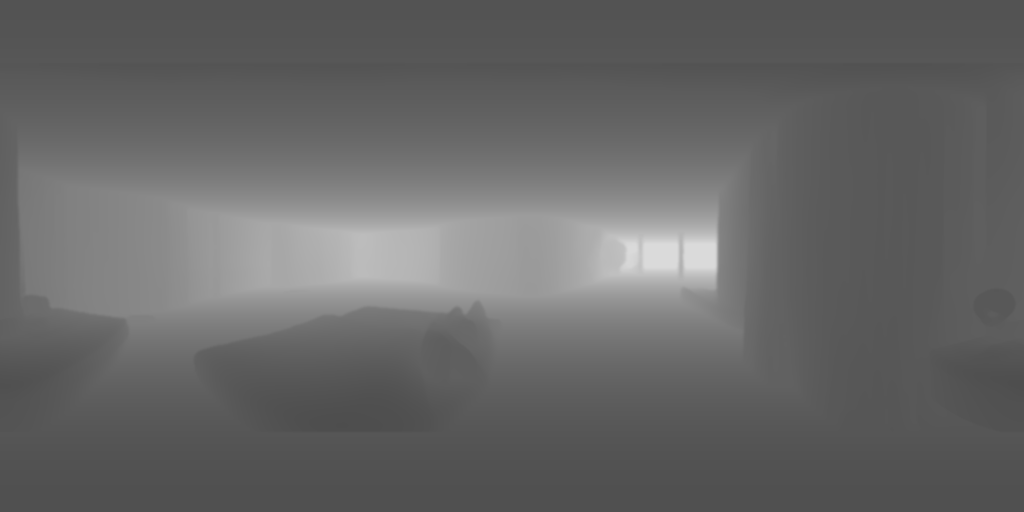
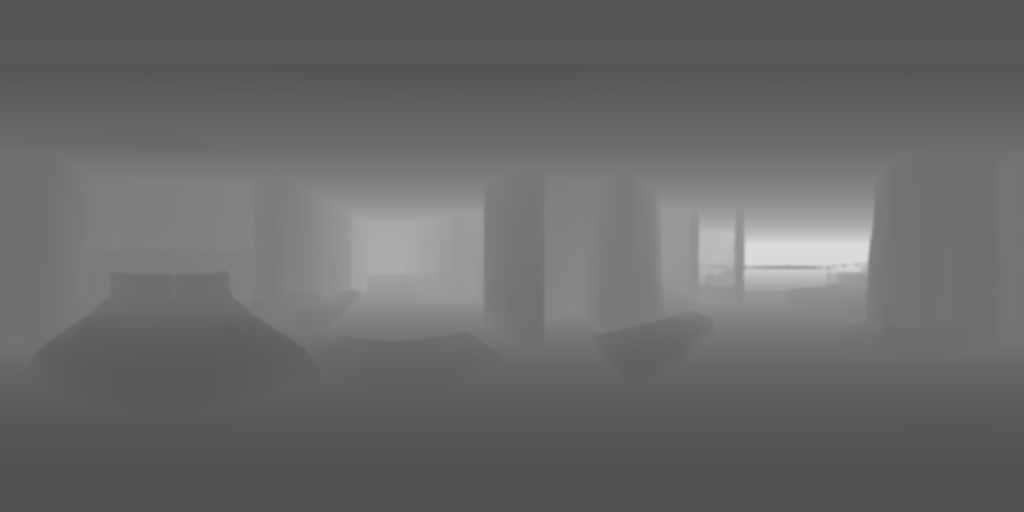
Tour 360 do Luxo Duplo sem vista para o mar

diff --git a/luxo-duplo.html b/luxo-duplo.html
@@ -116,7 +116,7 @@
       <p class="tour__dica">Ambiente gerado por computação para este demonstrativo. No site final, o tour usa fotos 360 do quarto.</p>
     </div>
   </section>
-<script type="application/json" id="tour-dados">{"inicio": "luxo-duplo", "nos": {"luxo-duplo": {"nome": "Luxo Duplo", "olhar": 0.42, "andar": 1.2, "dica": "Clique no chão para andar.", "links": [], "img": "assets/tour/luxo-duplo.jpg", "dist": "assets/tour/luxo-duplo-d.png"}}}</script>
+<script type="application/json" id="tour-dados">{"inicio": "luxo-duplo", "nos": {"luxo-duplo": {"nome": "Luxo Duplo", "olhar": 0.12, "andar": 1.2, "dica": "Clique no chão para andar.", "links": [], "img": "assets/tour/luxo-duplo.jpg", "dist": "assets/tour/luxo-duplo-d.png"}}}</script>
 
   <section class="section">
     <div class="container">
